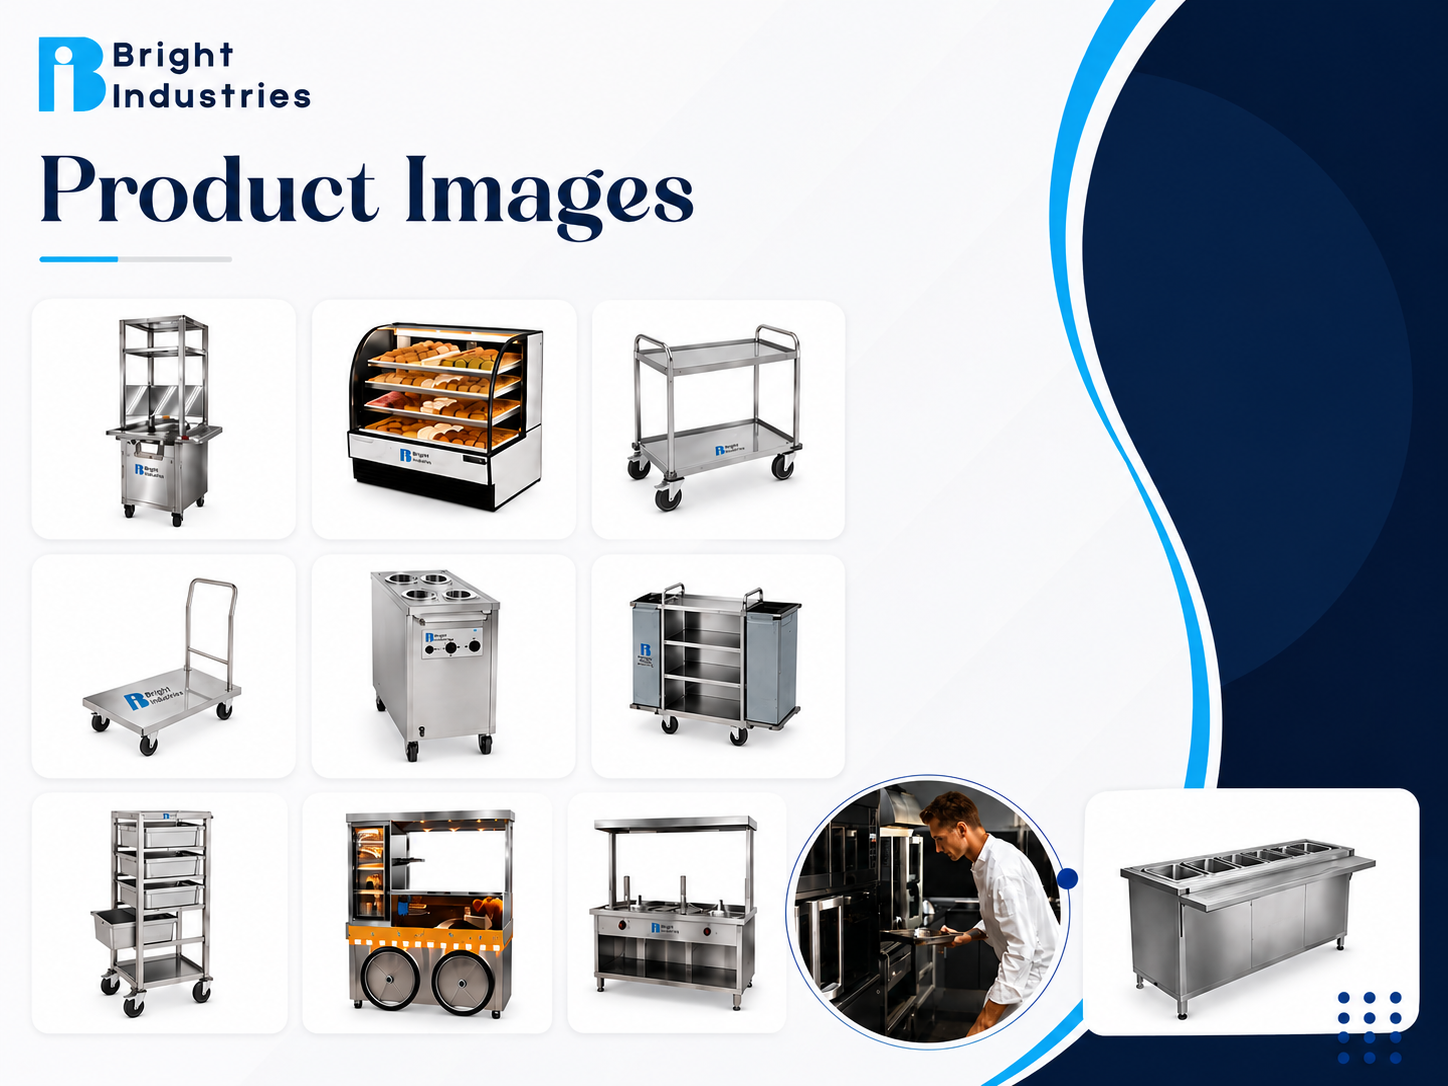
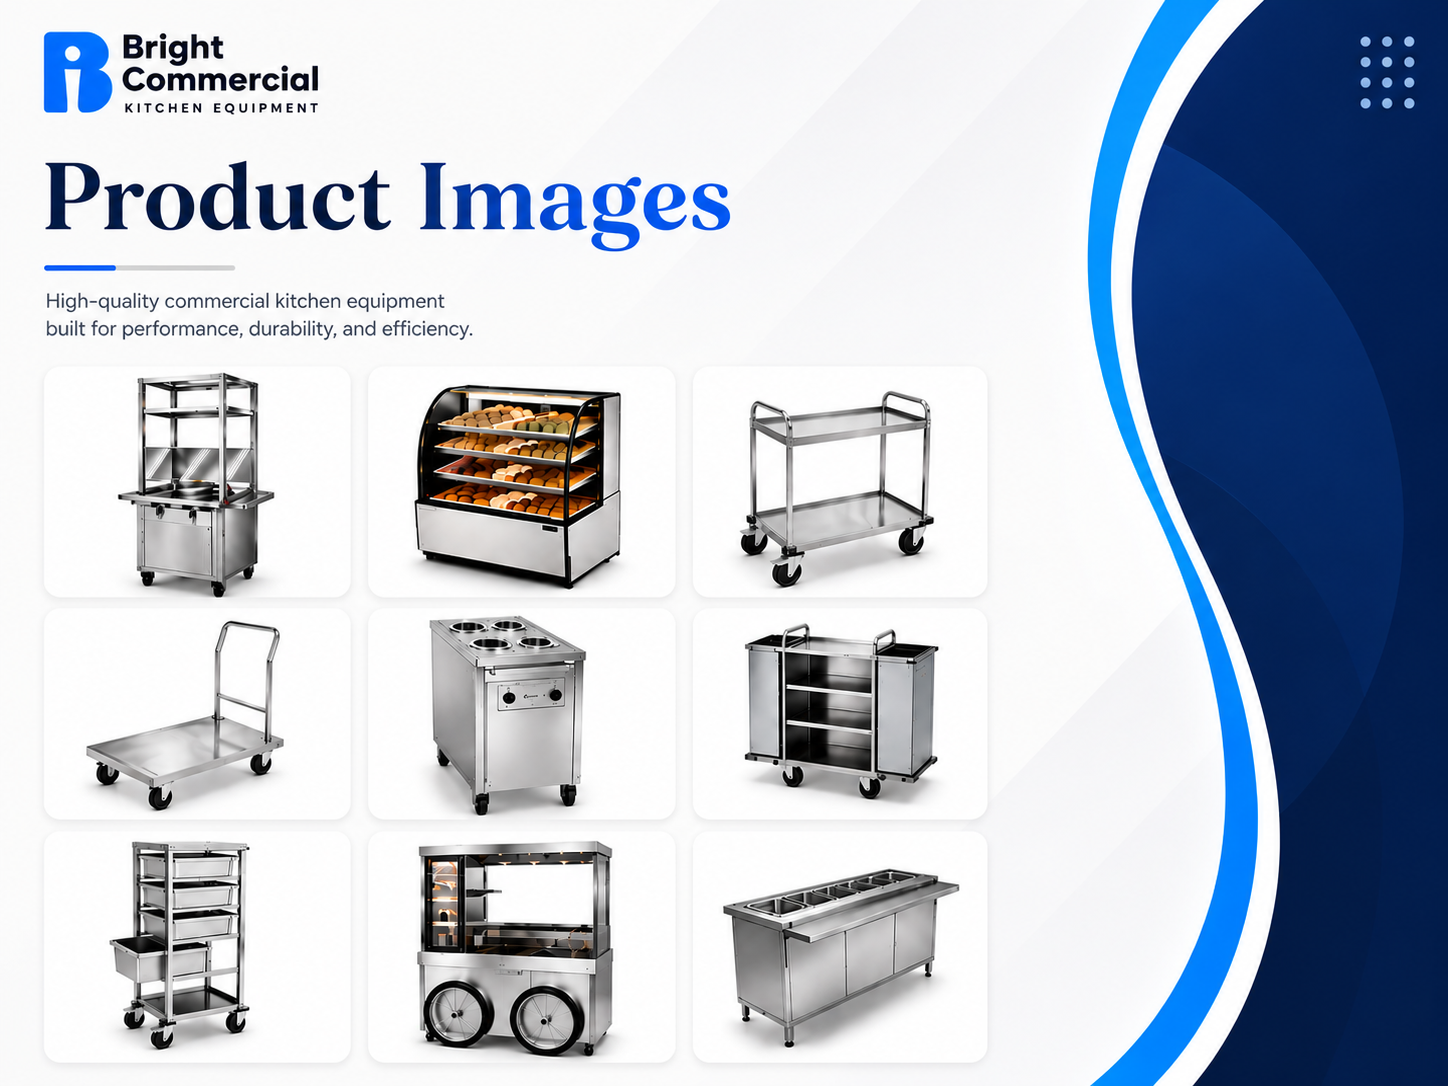
Brochure added and mt-10

diff --git a/src/components/Consultanthero/consultanthero.jsx b/src/components/Consultanthero/consultanthero.jsx
@@ -22,7 +22,7 @@ const ConsultantHero = () => {
         <div className="max-w-xl lg:max-w-2xl">
           
           {/* Heading */}
-          <h1 className="text-white font-extrabold leading-[0.9] tracking-tight text-[48px] sm:text-[72px] md:text-[100px] lg:text-[140px]">
+          <h1 className="mt-10 text-white font-extrabold leading-[0.9] tracking-tight text-[48px] sm:text-[72px] md:text-[100px] lg:text-[140px]">
             Consultant
           </h1>
 